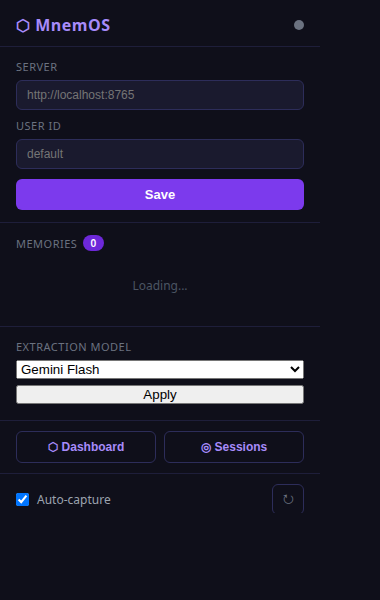
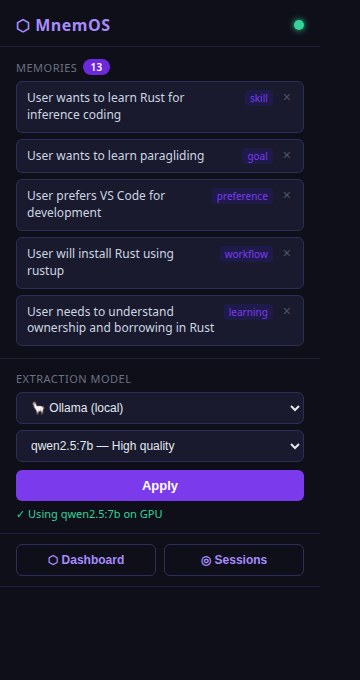
docs: update extension popup screenshot and ASCII — show memories + model picker Retook extension_popup.png showing real memories, Ollama engine selected, qwen2.5:7b model dropdown, and GPU status. Updated README popup ASCII art to match: memories list and engine/model selector instead of static Gem

diff --git a/README.md b/README.md
@@ -398,34 +398,33 @@ Click the ⬡ icon in your toolbar any time:
 ┌──────────────────────────────────────┐
 │  ⬡ MnemOS                    🟢     │  ← green dot = server connected
 ├──────────────────────────────────────┤
-│  Server                              │
-│  [ http://localhost:8765           ] │
-│  User ID                             │
-│  [ default                         ] │
-│  [ Save ]                            │
-├──────────────────────────────────────┤
-│  ⏳ 2 conversations queued           │  ← shows if server was briefly offline
-├──────────────────────────────────────┤
-│  Memories  [34]                      │
+│  Memories  [13]                      │
 │  ┌────────────────────────────────┐  │
-│  │ User codes in Python and Rust  │  │
-│  │ User has a dog named Bruno     │  │
-│  │ User prefers dark roast coffee │  │
-│  │ User uses Neovim on Arch Linux │  │
-│  │ User works late night, 11pm–3am│  │
+│  │ User knows Python              │  │
+│  │ User prefers dark mode editors │  │
+│  │ User is building a REST API    │  │
+│  │ User wants to learn Rust       │  │
+│  │ User uses VSCode with Vim keys │  │
 │  │ ...                            │  │
 │  └────────────────────────────────┘  │
 ├──────────────────────────────────────┤
 │  Extraction Model                    │
-│  [ Gemini Flash      ▼ ]             │  ← or Ollama
-│  [ qwen2.5:3b        ▼ ] [Download]  │  ← appears when Ollama selected
-│  [ Apply ]                           │
+│  ┌──────────────────────────────┐    │
+│  │  Engine:  [ Ollama      ▼ ]  │    │  ← switch between Ollama / Gemini
+│  │  Model:   [ qwen2.5:7b  ▼ ]  │    │  ← pick any downloaded model
+│  │           [ Apply ]           │    │
+│  └──────────────────────────────┘    │
 ├──────────────────────────────────────┤
 │  [ ⬡ Dashboard ]  [ ◎ Sessions ]    │
 ├──────────────────────────────────────┤
 │  ☑ Auto-capture              [ ↻ ]  │
 └──────────────────────────────────────┘
 ```
+
+> **Changing the model:** open the popup, pick an engine (Ollama or Gemini Flash) and
+> choose a model from the dropdown. If the model isn't downloaded yet, switch to the
+> Dashboard → Settings tab and hit **Download** next to the model name. Click **Apply**
+> and MnemOS will use the new model for all future extractions.
 
 ---
 
